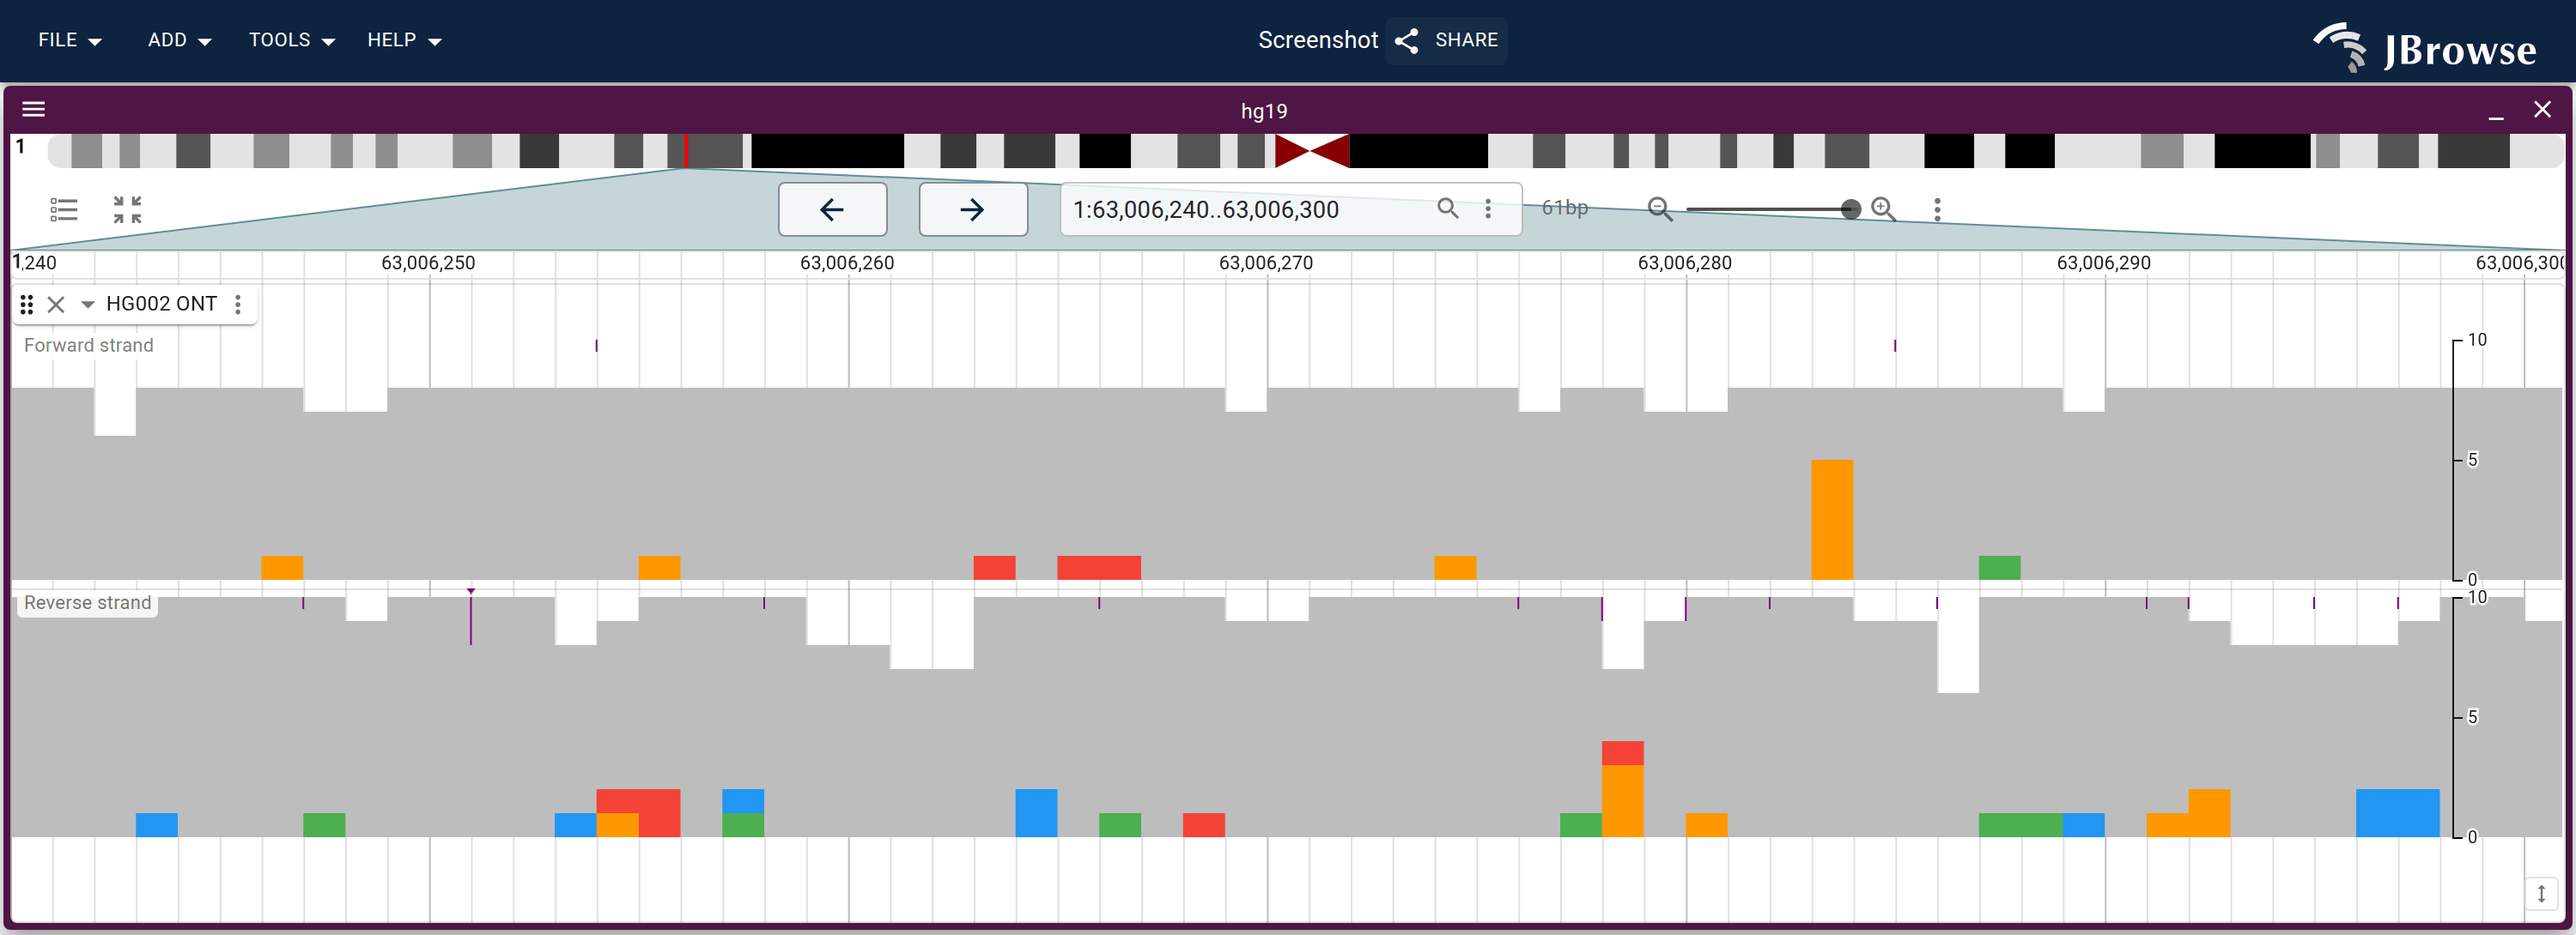
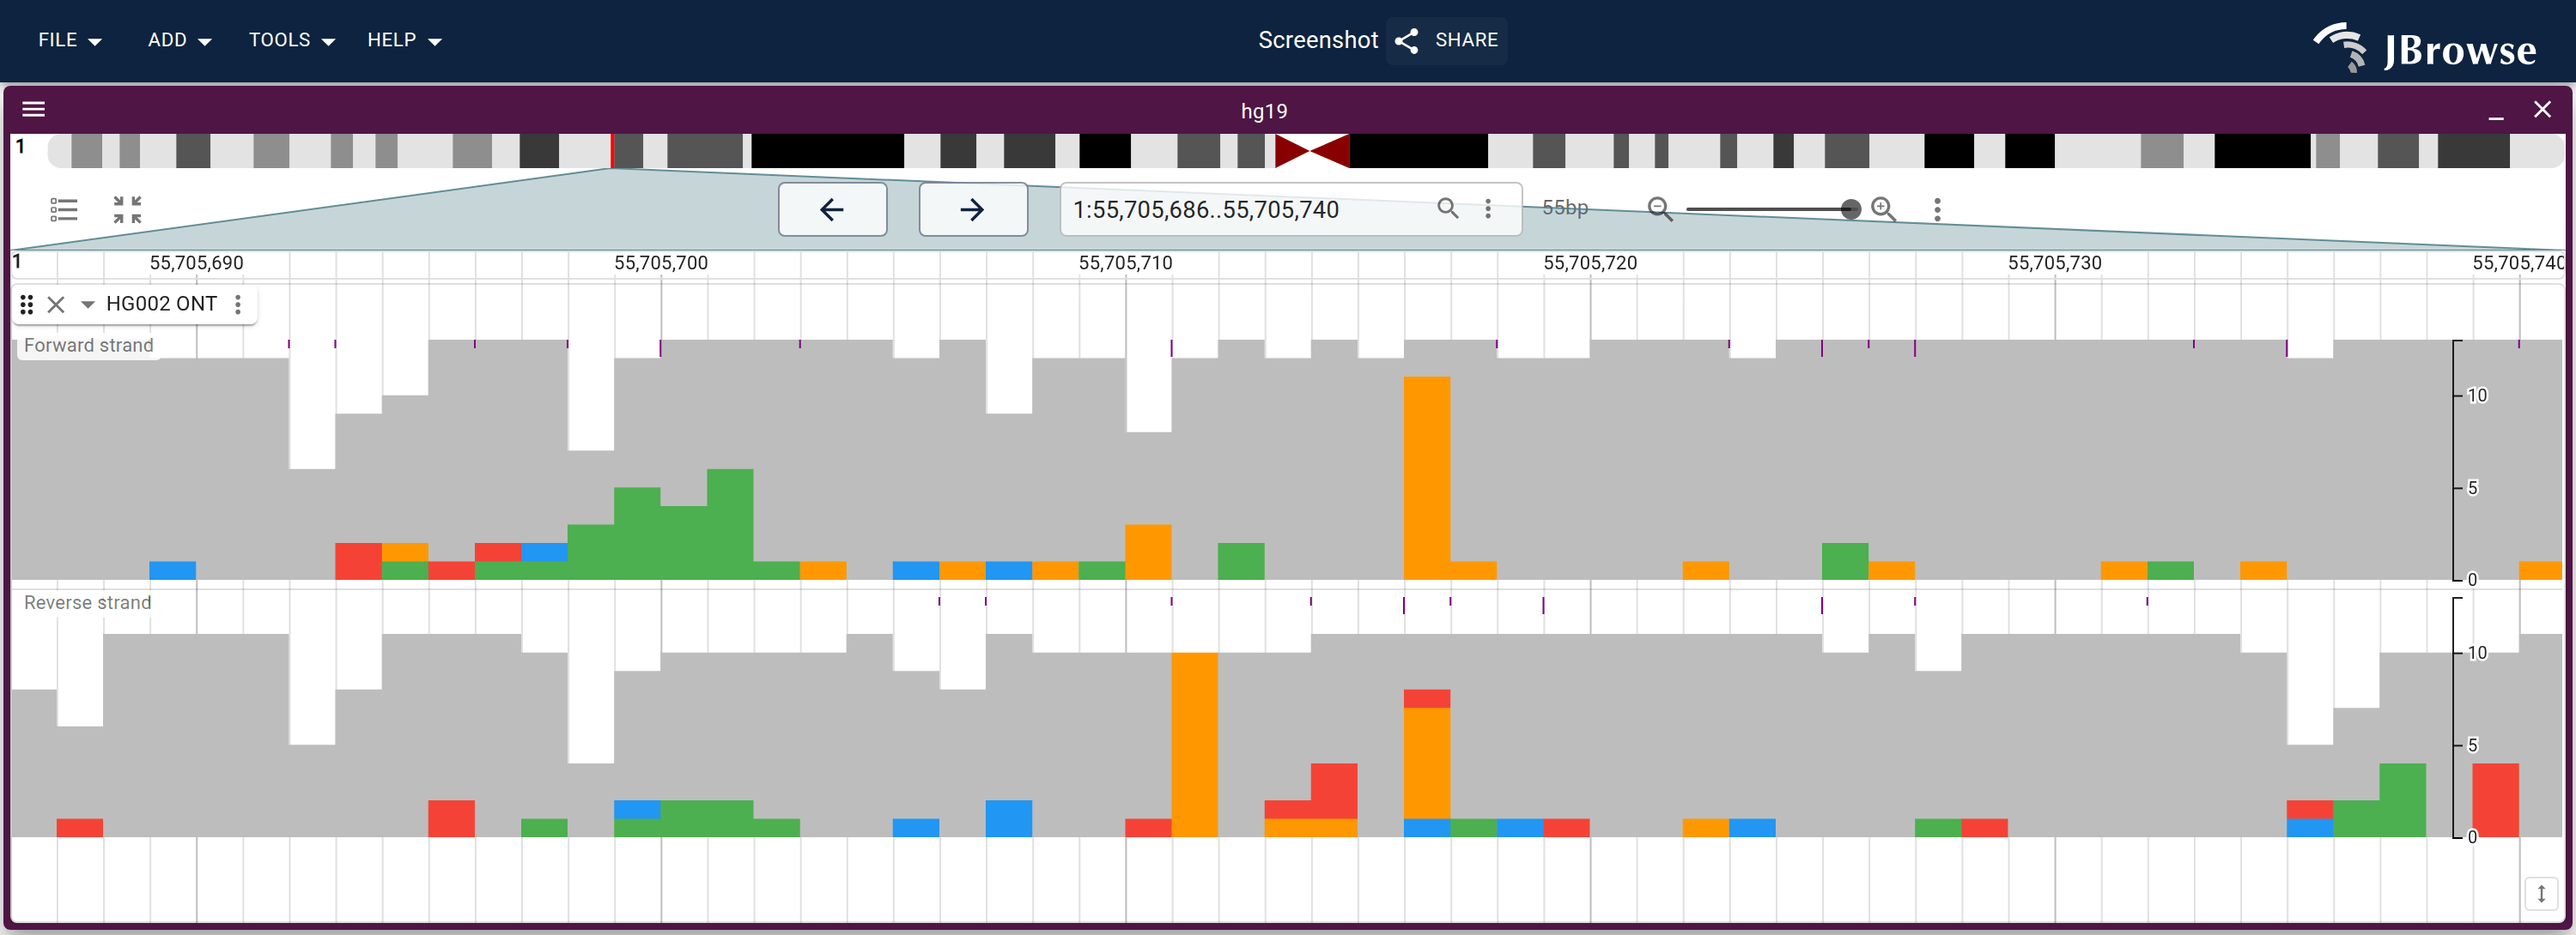
docs(alignments_track): pick the strand-bias window by pileup, not by eye
The previous window was one of three hand-guessed 60 bp slices. That is the
wrong method here: ONT mismatches are frequent enough that every screenshot of
this track looks busy, so a genuinely one-sided column does not stand out by
inspection and picking by eye cannot find the best one.

Computed it instead. Pileup the demo slices with no reference, so mpileup emits
literal base letters (uppercase forward, lowercase reverse), take the majority
base at each position as the reference, and rank by the gap between forward and
reverse mismatch fraction with at least 8 reads on each strand. Of 114k
positions with both-strand coverage, 64 exceed 0.75 asymmetry. This window holds
two of them pointing in opposite directions, which is what shows the asymmetry
is a property of the position rather than of one band.

The recipe and the rejected runner-up are in the spec.

Claude-Session: https://claude.ai/code/session_01KdJnYvkRTQbaqBP2PSmjHz

diff --git a/website/scripts/specs/alignments.ts b/website/scripts/specs/alignments.ts
@@ -294,7 +294,25 @@ export const alignmentsSpecs: ScreenshotSpec[] = [
   // errors are systematically strand-specific, so the asymmetry is real signal
   // rather than a prop. Base-level zoom is load-bearing. The same track over
   // 1.2 kb was tried and both bands come back a wall of ticks with nothing
-  // legible; at ~60 bp each position is a block wide enough to read.
+  // legible; at ~55 bp each position is a block wide enough to read.
+  //
+  // The window was computed, not eyeballed. Eyeballing candidate windows is what
+  // produced the earlier, weaker pick: ONT mismatches are frequent enough that
+  // every screenshot looks busy, so a genuinely one-sided column does not stand
+  // out by inspection. Instead, pileup the demo slices with no reference
+  //
+  //   samtools mpileup -r <slice> -Q 0 -d 2000 --no-output-ins --no-output-del \
+  //     --no-output-ends <bam>
+  //
+  // (no -f, so mpileup emits literal base letters: UPPERCASE = forward strand,
+  // lowercase = reverse), take the overall majority base at each position as the
+  // reference, and rank positions by |fwdMismatchFrac - revMismatchFrac| with at
+  // least 8 reads on each strand. Of 114k positions with both-strand coverage,
+  // 64 exceed 0.75 asymmetry; this window holds two of them pointing in opposite
+  // directions, which is what shows the asymmetry is not a property of one band.
+  // Rejected: 1:161,184,753 + 1:161,184,793 (a balanced het 40 bp from a 0/82
+  // position, the ideal contrast on paper, but the surrounding ONT speckle
+  // swamps it at the width needed to hold both).
   {
     mode: 'url',
     name: 'alignments/strand_split_coverage',
@@ -304,7 +322,7 @@ export const alignmentsSpecs: ScreenshotSpec[] = [
         {
           type: 'LinearGenomeView',
           assembly: 'hg19',
-          loc: '1:63,006,240-63,006,300',
+          loc: '1:55,705,686-55,705,740',
           tracks: [
             {
               trackId: 'hg002_nanopore_hp',

diff --git a/website/docs/user_guides/alignments_track.md b/website/docs/user_guides/alignments_track.md
@@ -160,7 +160,7 @@ since there the transcript strand is which mate the read is; the
 [RNA-seq tutorial](/docs/tutorials/rnaseq#strand-specific-rna-seq) shows that on
 a pair of genes transcribed in opposite directions.
 
-<Figure caption="HG002 nanopore reads grouped by strand with the pileup hidden. Each band's mismatch coloring is computed from only that strand's reads, so the tall columns fall at different positions in the two bands: a mismatch seen on one strand and not the other is the pattern that separates a systematic basecalling error from a real variant." src="/img/alignments/strand_split_coverage.png" />
+<Figure caption="HG002 nanopore reads grouped by strand with the pileup hidden. Nanopore mismatches are frequent, so both bands are speckled, but each band's coloring is computed from only its own strand's reads: the two tall columns here are each carried by one strand and barely register in the other, which is the pattern that separates a systematic basecalling error from a real variant." src="/img/alignments/strand_split_coverage.png" />
 
 ## Read height and track sizing
 
